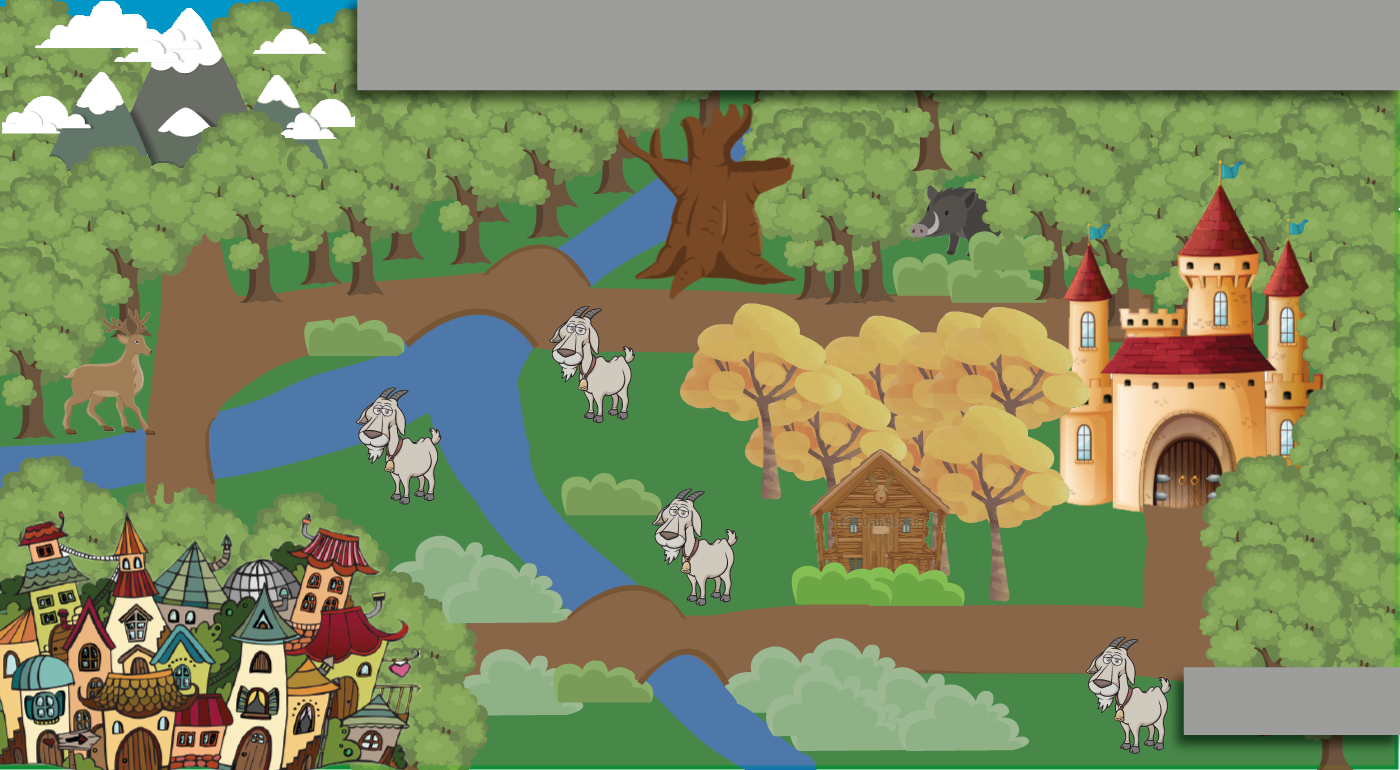
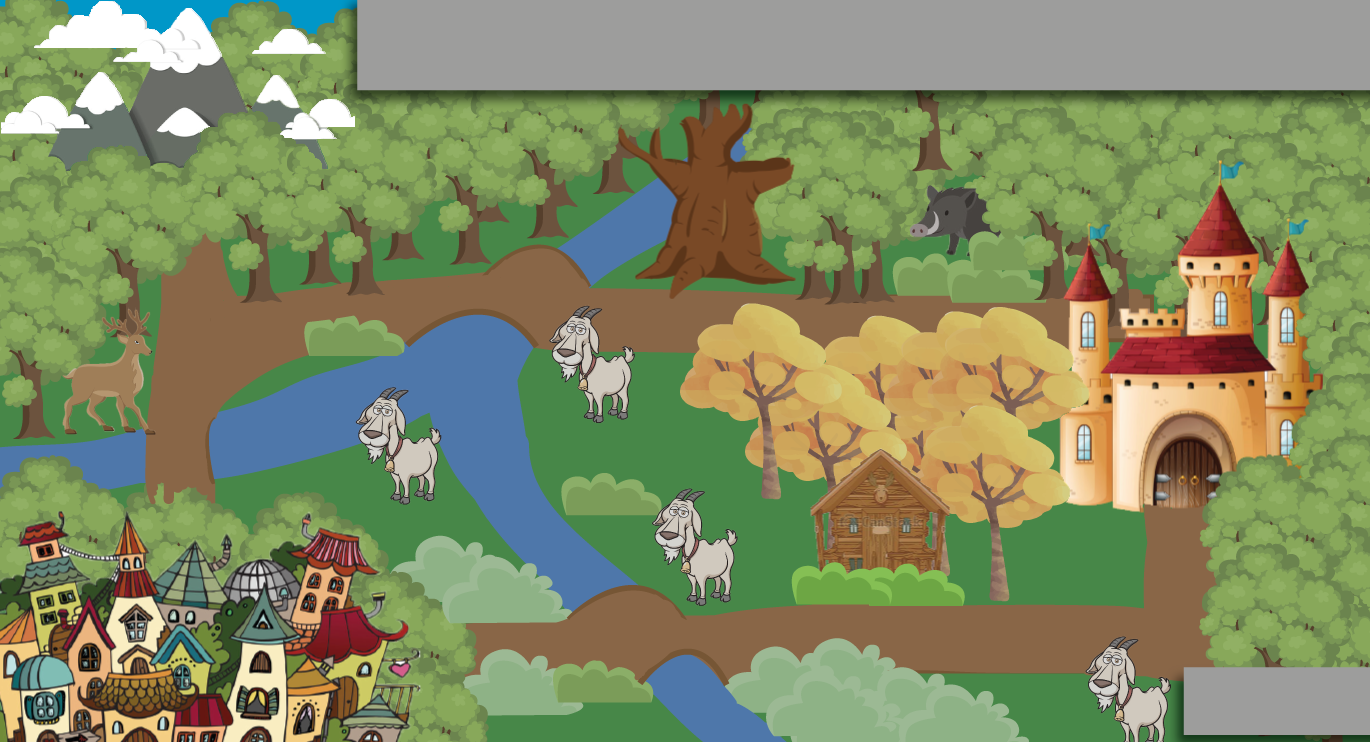
enhancing design

diff --git a/La_petite_boite/La_petite_boite/Form1.cs b/La_petite_boite/La_petite_boite/Form1.cs
@@ -141,7 +141,7 @@ namespace La_petite_boite
 
         private void Form1_Load(object sender, EventArgs e)
         {
-            Double flagResolution = System.Windows.Forms.Screen.PrimaryScreen.Bounds.Height / System.Windows.Forms.Screen.PrimaryScreen.Bounds.Width;
+            Double flagResolution = Screen.PrimaryScreen.Bounds.Height / System.Windows.Forms.Screen.PrimaryScreen.Bounds.Width;
             Console.WriteLine("resolution flag :" + System.Windows.Forms.Screen.PrimaryScreen);
             if (flagResolution == 1366 / 768)
             {
@@ -234,7 +234,6 @@ namespace La_petite_boite
             saisirInfos.BorderStyle = BorderStyle.FixedSingle;
 
             //tabBord
-
             
             tabBord.BackColor = Color.Transparent;
             tabBord.BackgroundImage = items.banniereGriseTabBord;
@@ -244,17 +243,7 @@ namespace La_petite_boite
             tabBord.Controls.Add(sauvegarde);
             tabBord.Controls.Add(quitterMiniJeu);
             tabBord.Controls.Add(guide);
-
-            sauvegarde.Top = 15;
-            sauvegarde.Left = 40;
-
-            guide.Top = 8;
-            guide.Left = 90;
-
-            quitterMiniJeu.Top = 15;
-            quitterMiniJeu.Left = 145;
             
-
             //conteneurEtoilesCoffre
             
             conteneurEtoilesCoffre.Width = 1000;
@@ -270,7 +259,7 @@ namespace La_petite_boite
 
             //objectifs
 
-            objectif.Width = 60;
+            objectif.Width = 200;
             objectif.Height = 200;
             objectif.Top = 0;
             objectif.Left = 0;
@@ -418,6 +407,7 @@ namespace La_petite_boite
             precedent.Width = 170;
             precedent.Left = 50;
             precedent.Top = 40;
+            precedent.BackgroundImageLayout = ImageLayout.Stretch;
             precedent.BackgroundImage = items.retourFleche;
             precedent.Click += new EventHandler(afficherDiapoPrecedente);
 
@@ -988,6 +978,7 @@ namespace La_petite_boite
             Table.Controls.Add(actionJoueur, 0, 3);
             Table.SetColumnSpan(textePresentationJeu, 4);
             Table.SetColumnSpan(actionJoueur, 4);
+            
 
             foreach (Control c in Table.Controls)
             {
@@ -995,6 +986,7 @@ namespace La_petite_boite
                 c.Anchor = AnchorStyles.None;
             }
 
+            precedent.Dock = DockStyle.Fill;
             actionJoueur.Anchor = AnchorStyles.Top;
             diaporamaHistoire.Controls.Add(Table);
             diaporamaHistoire.Tag = "0";
@@ -1137,24 +1129,30 @@ namespace La_petite_boite
             coffre.Left = 870;
             
             //position du tableau de bord
-            Double tabBordTop = 0.91 * CarteJeu.Height;
-            Double tabBordLeft = 0.85 * CarteJeu.Width;
+            Double tabBordTop = 0.90 * CarteJeu.Height;
+            Double tabBordLeft = 0.845 * CarteJeu.Width;
             tabBord.Top = (int) tabBordTop;
             tabBord.Left = (int) tabBordLeft;
             tabBord.Width = 240;
             tabBord.Height = 87;
-
-            //guide
-            guide.Width = 50;
-            guide.Height = 50;
             
+            //guide
+            guide.Width = 49;
+            guide.Height = 49;
+            guide.Left = 143;
+            guide.Top = 8;
+
             //sauvegarde
-            sauvegarde.Width = 34;
-            sauvegarde.Height = 34;
+            sauvegarde.Width = 49;
+            sauvegarde.Height = 49;
+            sauvegarde.Left = 84;
+            sauvegarde.Top = 8;
 
             //quitterMiniJeu
-            quitterMiniJeu.Width = 40;
-            quitterMiniJeu.Height = 40;
+            quitterMiniJeu.Width = 49;
+            quitterMiniJeu.Height = 49;
+            quitterMiniJeu.Left = 25;
+            quitterMiniJeu.Top = 8;
 
             villageHauteur = 0.36 * CarteJeu.Height;
             villageLargeur = 0.33 * CarteJeu.Width;
@@ -1465,18 +1463,18 @@ namespace La_petite_boite
             tabBord.Width = 140;
             tabBord.Height = 70;
 
-            sauvegarde.Top = 8;
-            sauvegarde.Left = 25;
-            sauvegarde.Width = 20;
-            sauvegarde.Height = 20;
+            sauvegarde.Top = 11;
+            sauvegarde.Left = 62;
+            sauvegarde.Width = 30;
+            sauvegarde.Height = 30;
 
-            guide.Top = 8;
-            guide.Left = 60;
+            guide.Top = 11;
+            guide.Left = 102;
             guide.Width = 30;
             guide.Height = 30;
 
-            quitterMiniJeu.Top = 8;
-            quitterMiniJeu.Left = 110;
+            quitterMiniJeu.Top = 11;
+            quitterMiniJeu.Left = 22;
             quitterMiniJeu.Width = 30;
             quitterMiniJeu.Height = 30;
             
@@ -1509,25 +1507,20 @@ namespace La_petite_boite
             if (chevalier.getEpreuvesGagnees(IndiceJeu) == 1)
             {
                 //epreuve remportee / alors il n'y a pas d'etoiles jaunes a remporter
+
+                objectif.Controls.Add(new Etoile(0, 0, 2));
+                objectif.Controls.Add(new Etoile(90, 0, 2));
+                objectif.Controls.Add(new Etoile(45, 70, 2));
                 
-                for (int i = 1; i < 4; i++)
-                {
-                    int left = 0;
-                    int top = i * 70;
-                    objectif.Controls.Add(new Etoile(left, top, 2));
-                }
             }
             else
             {
                 //epreuve perdue ou premiere fois /il y a encore des etoiles a remporter
                 //on ajoute les etoiles jaunes
-
-                for (int i = 0; i < 3; i++)
-                {
-                    int left = 0;
-                    int top = i * 70;
-                    objectif.Controls.Add(new Etoile(left, top, 1));
-                }
+                
+                objectif.Controls.Add(new Etoile(0, 0, 1));
+                objectif.Controls.Add(new Etoile(90, 0, 1));
+                objectif.Controls.Add(new Etoile(45, 70, 1));
             }
             
             Table.ColumnStyles.Clear();
@@ -1553,6 +1546,8 @@ namespace La_petite_boite
             miniJeu.Dock = DockStyle.Fill;
             conteneurEtoilesCoffre.Dock = DockStyle.None;
             conteneurEtoilesCoffre.Anchor = AnchorStyles.Top | AnchorStyles.Right;
+            imgChevalier.Dock = DockStyle.None;
+            imgChevalier.Anchor = AnchorStyles.None;
             Table.Margin = new Padding(0);
             
             //on ajoute tous les composants dans le panel

diff --git a/La_petite_boite/La_petite_boite/Activites/Ressources/Properties/Resources.Designer.cs b/La_petite_boite/La_petite_boite/Activites/Ressources/Properties/Resources.Designer.cs
@@ -682,6 +682,26 @@ namespace Ressources.Properties {
         /// <summary>
         ///   Looks up a localized resource of type System.Drawing.Bitmap.
         /// </summary>
+        public static System.Drawing.Bitmap helpicone {
+            get {
+                object obj = ResourceManager.GetObject("helpicone", resourceCulture);
+                return ((System.Drawing.Bitmap)(obj));
+            }
+        }
+        
+        /// <summary>
+        ///   Looks up a localized resource of type System.Drawing.Bitmap.
+        /// </summary>
+        public static System.Drawing.Bitmap homeBouton {
+            get {
+                object obj = ResourceManager.GetObject("homeBouton", resourceCulture);
+                return ((System.Drawing.Bitmap)(obj));
+            }
+        }
+        
+        /// <summary>
+        ///   Looks up a localized resource of type System.Drawing.Bitmap.
+        /// </summary>
         public static System.Drawing.Bitmap jardin1 {
             get {
                 object obj = ResourceManager.GetObject("jardin1", resourceCulture);
@@ -1281,6 +1301,16 @@ namespace Ressources.Properties {
         public static System.IO.UnmanagedMemoryStream roiVaALecoleTurc {
             get {
                 return ResourceManager.GetStream("roiVaALecoleTurc", resourceCulture);
+            }
+        }
+        
+        /// <summary>
+        ///   Looks up a localized resource of type System.Drawing.Bitmap.
+        /// </summary>
+        public static System.Drawing.Bitmap sauvegardebutton1 {
+            get {
+                object obj = ResourceManager.GetObject("sauvegardebutton1", resourceCulture);
+                return ((System.Drawing.Bitmap)(obj));
             }
         }
         

diff --git a/La_petite_boite/La_petite_boite/Activites/Ressources/items.cs b/La_petite_boite/La_petite_boite/Activites/Ressources/items.cs
@@ -195,7 +195,7 @@ namespace Ressources
         {
             get
             {
-                return Properties.Resources.map;
+                return Properties.Resources.map1;
             }
         }
 
@@ -291,7 +291,7 @@ namespace Ressources
         {
             get
             {
-                return Properties.Resources.question;
+                return Properties.Resources.helpicone;
             }
         }
 
@@ -299,7 +299,7 @@ namespace Ressources
         {
             get
             {
-                return Properties.Resources.disquette;
+                return Properties.Resources.sauvegardebutton1;
             }
         }
 
@@ -307,7 +307,7 @@ namespace Ressources
         {
             get
             {
-                return Properties.Resources.exit;
+                return Properties.Resources.homeBouton;
             }
         }
 
